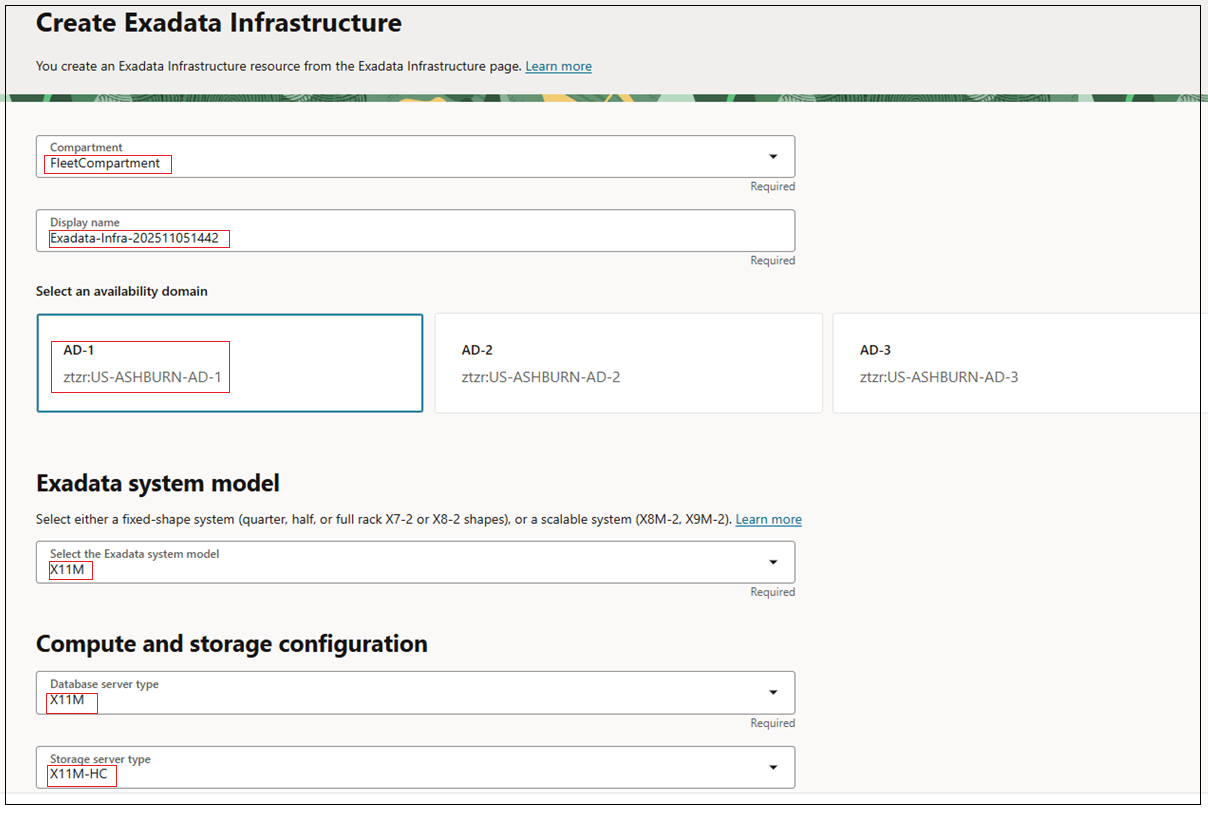
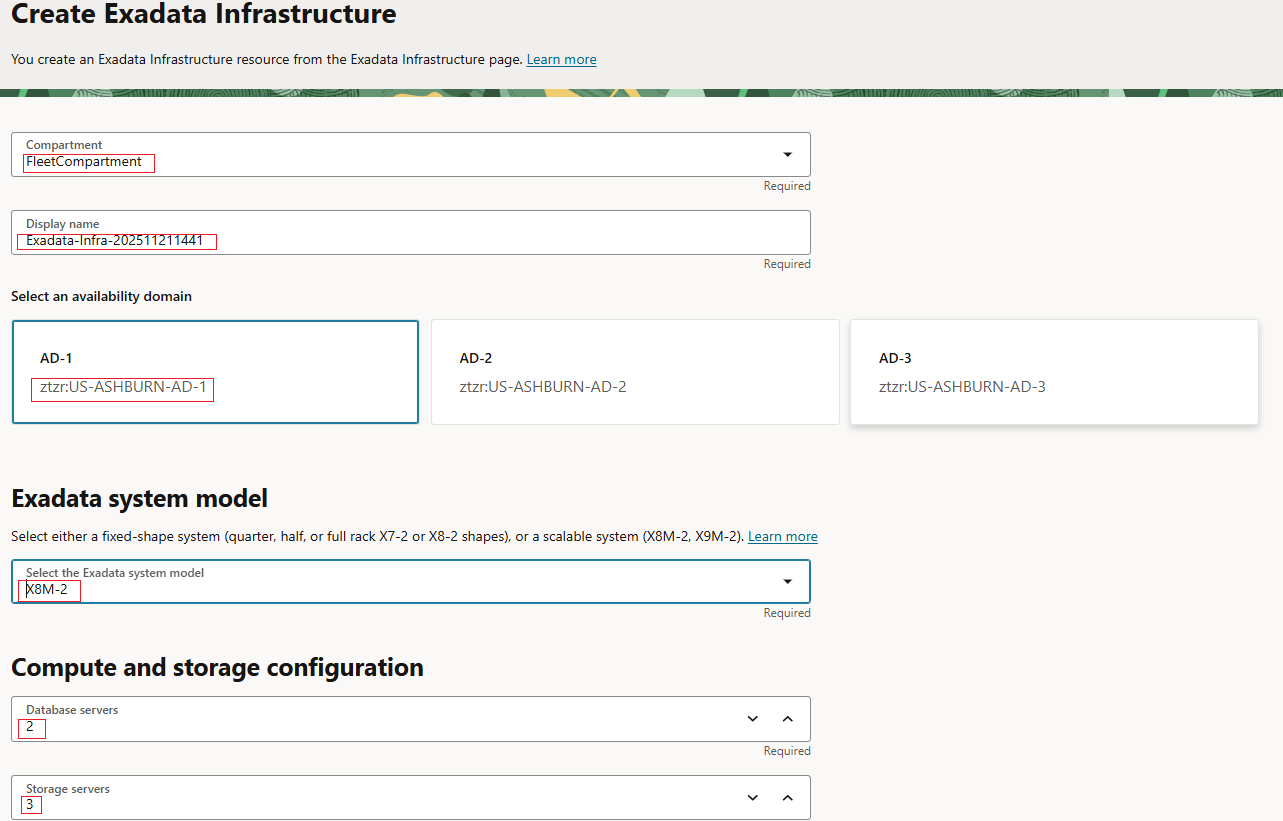
changes in screenshot

diff --git a/adb-provisioning-exadata/adb-provisioning-exadata.md b/adb-provisioning-exadata/adb-provisioning-exadata.md
@@ -30,13 +30,20 @@ Your tenancy has limits on the maximum number of resources you're allowed to use
 - Navigate to **Governance & Administration** . Under **Tenancy Management**, click **Limits, quotas and Usage**.
 
     ![This image shows the result of performing the above step.](./images/limit1.png " ")    
-- Click **Edit Filters** and select Service as **Database**. In Scope choose the desired Availability Domain where you want to deploy your Cloud Exadata infrastructure. In Compartment, choose the compartment where you want to deploy your Cloud Exadata infrastructure. Click **Update**. 
-- The list should show all the available resources, Exadata X11M Database Server Count and Exadata X11M Storage Server Count available or used in selected Availability Domain. 
+- Click **Edit Filters** and enter Service as **Database**. In Scope choose the desired Availability Domain where you want to deploy your Cloud Exadata infrastructure. In Compartment, choose the compartment where you want to deploy your Cloud Exadata infrastructure. Click **Update**. In the search box, enter **Exadata X8M**.
+- The list should show all the available resources, Exadata X8M Database Server Count and Exadata X8M Storage Server Count available or used in selected Availability Domain. 
 
     ![This image shows the result of performing the above step.](./images/limit2.png " ")
-    - To increase the Service in your tenancy, click on **Request a service limit increase** and fill in the details in **Request Service Limit Updates**.
+    - To increase the Service in your tenancy, click on **Request a service limit increase** . Provide the request name and reason for the request.
 
-    ![This image shows the result of performing the above step.](./images/limit3.png " ")
+    ![This image shows the result of performing the above step.](./images/limit2a.png " ")
+    - Search for the name of the limit and update the values for each availibility domain.
+ 
+    ![This image shows the result of performing the above step.](./images/limit2b.png " ")
+    - Verify if the values indicated are correct and submit the request.
+
+    ![This image shows the result of performing the above step.](./images/limit2c.png " ")
+
     
 
 ## Task 2: Deploy your Cloud Exadata Infrastructure
